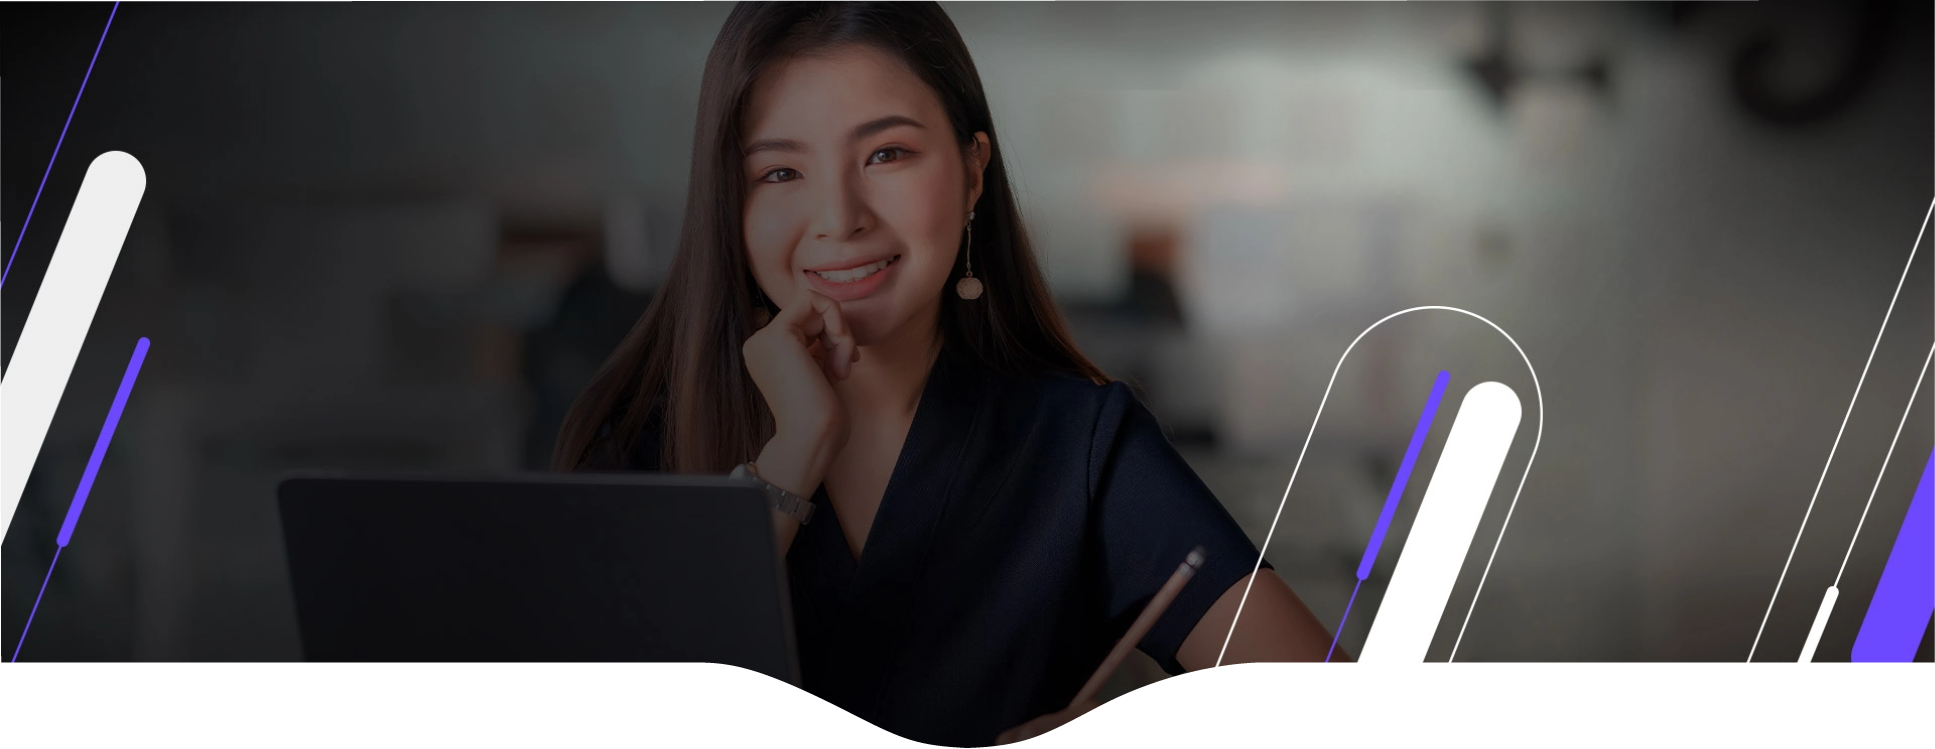
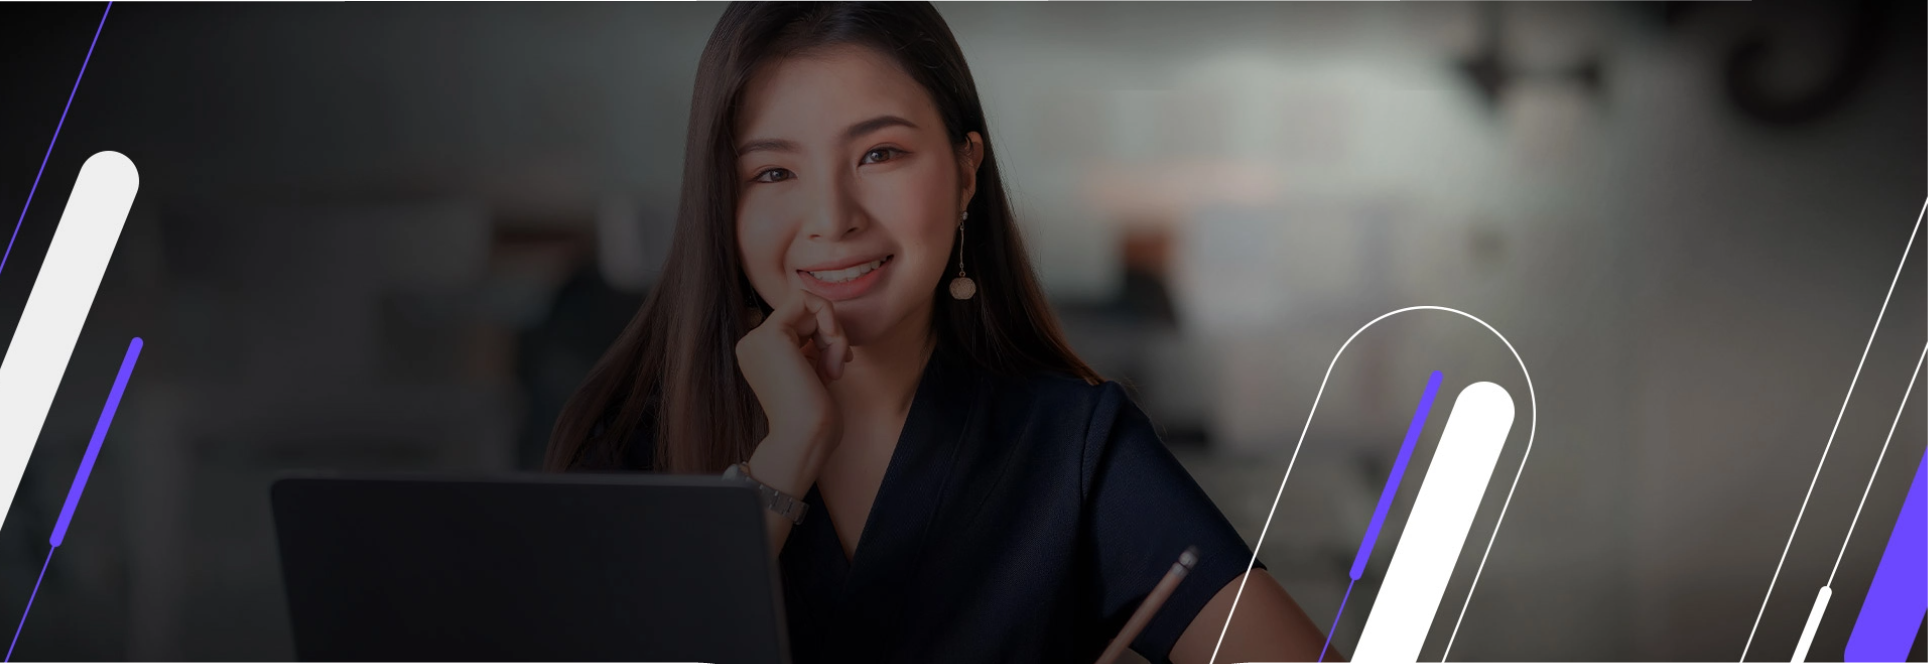
äjustes cano

diff --git a/components/Slider/Card.tsx b/components/Slider/Card.tsx
@@ -4,6 +4,7 @@ import { FaCalendarAlt, FaRegClock } from 'react-icons/fa'
 
 interface Props {
     img: string,
+    imgMobile: string,
     title: string,
     desc: string,
     buttonInfo: string,
@@ -11,49 +12,50 @@ interface Props {
     calendar: boolean,
 }
 
-const Card = ({img, title, desc, buttonInfo, buttonLink, calendar}: Props) => {
+const Card = ({img, imgMobile, title, desc, buttonInfo, buttonLink, calendar}: Props) => {
     console.log('Card')
     return (
         <div className="relative">
-            <img alt={"banner"} src={img} />
-            <div className="relative md:absolute top-0 left-0 w-full h-full mt-[15px] md:mt-0 px-[20px] md:px-0">
-                <div className="container h-5/6 flex wrap justify-between items-center text-black md:text-white px-[20px] md:px-24 flex-col md:flex-row">
-                    <div className="wrap-title w-full md:w-7/12 grow">
-                        <h2 className="text-[32px] md:text-[55px] font-bold leading-[40px] leading-[60px]">{title}</h2>
+            <img className="w-full desk" alt={"banner"} src={img} />
+            <img className="w-full mobile" alt={"banner"} src={imgMobile} />
+            <div className="absolute top-0 left-0 w-full h-full mt-[15px] md:mt-0 px-[20px] md:px-0">
+                <div className={'container h-5/6 flex wrap justify-center md:justify-between items-center text-white px-[20px] md:px-24 flex-col md:flex-row ' + (calendar ? 'pt-6' : 'pt-[110px] md:pt-0')}>
+                    <div className={'wrap-title w-full ' + (calendar ? 'md:w-7/12' : 'md:w-2/3')}>
+                        <h2 className="text-[30px] md:text-[55px] font-bold leading-[32px] lg:leading-[60px] text-center md:text-left">{title}</h2>
                         <div className={'text-boolean ' + (calendar ? 'hidden' : 'block')}>
-                            <p className="mb-[42px] mt-[20px] md:mt-[10px] text-[16px] md:text-[24px] leading-[20px] leading-[24px]">{desc}</p>
-                            <a href={buttonLink} className="bg-secundare-orange block border border-secundare-orange delay-100 ease font-normal hover:bg-white hover:text-secundare-orange leading-[19px] max-w-[210px] py-4 px-10 rounded-full text-[16px] text-center text-white transition uppercase font-extrabold">
+                            <p className={'mb-[42px] mt-[20px] md:mt-[10px] text-[16px] md:text-[24px] leading-[20px] leading-[24px] ' + (calendar ? 'text-left' : 'text-center md:text-left')}>{desc}</p>
+                            <a href={buttonLink} className={'bg-secundare-orange block border border-secundare-orange delay-100 ease font-normal hover:bg-white hover:text-secundare-orange leading-[19px] max-w-[210px] py-4 px-10 rounded-full text-[16px] text-center text-white transition uppercase font-extrabold ' + (calendar ? 'ml-0' : 'm-auto md:ml-0')}>
                                 {buttonInfo}
                             </a>
                         </div>
                     </div>
                     <div className={"mt-5 wrap-info relative flex w-full md:w-5/12 " + (calendar ? 'block' : 'hidden')}>
-                        <div className="mr-[15px] w-[61px] h-[61px] mb-[19px] ">
+                        <div className="order-2 md:order-1 mr-0 md:mr-[15px] w-[88px] h-[88px] md:w-[61px] md:h-[61px] mb-[19px] ml-[30px] md:ml-0">
                             <div className=" bg-complementary-purple rounded-t-lg text-secundare-gray text-[15px] text-center uppercase flex align-center justify-center ">Mês
                             </div>
                             <div className="bg-white h-[35px] rounded-b-lg text-principal-black text-center font-bold text-[23px] flex align-center justify-center ">00
                             </div>
                         </div>
-                        <div className="info w-full md:w-1/2 leading-6">
+                        <div className="order-1 md:order-2 info w-full md:w-1/2 leading-6">
                             <p className="text-secundare-orange">
                                 WEBINARS
                             </p>
                             <h6 className="text-[22px] font-bold mb-5">
                                 NOVIDADES DO RELEASE - TOTVS VAREJO SUPERMERCADOS
                             </h6>
-                            <div className="data mb-2.5 flex items-center">
+                            <div className="text-secundare-gray md:color-white text-[12px] mb-0 data md:mb-2.5 flex items-center">
                                 <FaCalendarAlt/>
                                 <p className="ml-2">
                                     00/00/2022
                                 </p>
                             </div>
-                            <div className="hora mb-4 flex items-center">
+                            <div className="text-secundare-gray md:color-white text-[12px] mb-0 hora mb-4 flex items-center">
                                 <FaRegClock/>
                                 <p className="ml-2">
                                     10:00 às 11:00
                                 </p>
                             </div>
-                            <div className="btn flex items-center justofy-between">
+                            <div className="btn flex items-center justofy-between mt-5 md:mt-0">
                                 <a href="" className="bg-secundare-orange block border border-secundare-orange delay-100 ease font-normal hover:bg-white hover:text-secundare-orange leading-[19px] max-w-[170px] py-2.5 px-4 rounded-full text-[16px] text-center text-white transition uppercase font-extrabold">
                                     Inscreva-se
                                 </a>
@@ -64,6 +66,11 @@ const Card = ({img, title, desc, buttonInfo, buttonLink, calendar}: Props) => {
                         </div>
                     </div>
                 </div>
+            </div>
+            <div className="curve">
+                <svg version="1.1" x="0px" y="0px" viewBox="0 0 505.7 70.1">
+                    <path fill="#ffffff" d="M351,32.6c-55.9,30.1-71.4,32.7-98.2,32.7s-42.3-2.6-98.2-32.7S28,0,28,0H0v70.1h28h449.6h28.1V0h-28.1C477.6,0,407,2.5,351,32.6z"/>
+                </svg>
             </div>
         </div>
     )

diff --git a/styles/globals.css b/styles/globals.css
@@ -104,21 +104,62 @@ a {
   bottom: 10px
 }
 
+.curve {
+  position: absolute;
+  bottom: 0;
+  left: 0;
+  width: 100%;
+}
+
+.curve svg {
+  max-width: 460px;
+  margin: 0 auto
+}
+
+.curve:before {
+  content: '';
+  width: 35%;
+  background: #fff;
+  height: 100%;
+  top: 0;
+  left: 0;
+  display: block;
+  position: absolute;
+  z-index: 1;
+}
+.curve:after {
+  content: '';
+  width: 35%;
+  background: #fff;
+  height: 100%;
+  top: 0;
+  right: 0;
+  display: block;
+  position: absolute;
+  z-index: 1;
+}
+
+.slick-slide img.desk {
+  display: block;
+}
+
+.slick-slide img.mobile {
+  display: none;
+}
+
 @media (max-width: 768px) {
   .slick-slider .slick-dots {
-    bottom: -20px;
-    position: relative;
-  }
-
-  .slick-slider .slick-dots li button:before {
-    color: #000;
+    bottom: 12%;
   }
 
   .slick-slider .slick-arrow {
-    color: #000;
+    color: #ffffff;
     font-size: 24px !important;
     width: 30px;
     height: 30px;
+    top: inherit;
+    bottom: 10%;
+    z-index: 10;
   }
 
   .slick-slider .slick-arrow.slick-prev {
@@ -127,5 +168,23 @@ a {
 
   .slick-slider .slick-arrow.slick-next {
     right: 5px;
+  }
+
+  .slick-slide img.mobile {
+    display: block;
+  }
+
+  .slick-slide img.desk {
+    display: none;
+  }
+  .curve svg {
+    width: 100%;
+    max-width: 100%;
+  }
+  .curve:before {
+    content: none;
+  }
+  .curve:after {
+    content: none;
   }
 }

diff --git a/pages/index.tsx b/pages/index.tsx
@@ -13,6 +13,7 @@ const Home: NextPage = () => {
   const banner = [
     {
       img: './hero-banner-home.png',
+      imgMobile: './hero-banner-home-mobile.png',
       title: 'PARTICIPE DAS NOSSAS DEMONSTRAÇÕES',
       desc: 'Conheça nossos produtos e tire suas dúvidas com nossos especialistas.',
       buttonInfo: 'Saiba mais',
@@ -21,6 +22,7 @@ const Home: NextPage = () => {
     },
     {
       img: './hero-banner-home-roxo.png',
+      imgMobile: './hero-banner-home-roxo-mobile.png',
       title: 'CONHEÇA AS INOVAÇÕES DO NOVO RELEASE',
       desc: '',
       buttonInfo: '',
@@ -35,7 +37,7 @@ const Home: NextPage = () => {
 
       <section className='relative mt-[105px]'>
         <SimpleSlider items={banner} />
-        <FaCaretDown className="svg-banner relative md:absolute text-black md:text-white text-[50px] bottom-[-20px] md:bottom-[20px]"/>
+        <FaCaretDown className="svg-banner absolute text-white text-[50px] bottom-[0] bottom-[20px]"/>
       </section>
       
       <Eventos />

diff --git a/components/Slider/default.tsx b/components/Slider/default.tsx
@@ -14,6 +14,7 @@ interface Props {
 
 interface Slider {
     img: string,
+    imgMobile: string,
     title: string,
     desc: string,
     buttonInfo: string,
@@ -39,6 +40,7 @@ const SimpleSlider = ({items}: Props) => {
                 <Card
                     key={i}
                     img={item.img}
+                    imgMobile={item.imgMobile}
                     title={item.title}
                     desc={item.desc}
                     buttonInfo={item.buttonInfo}
